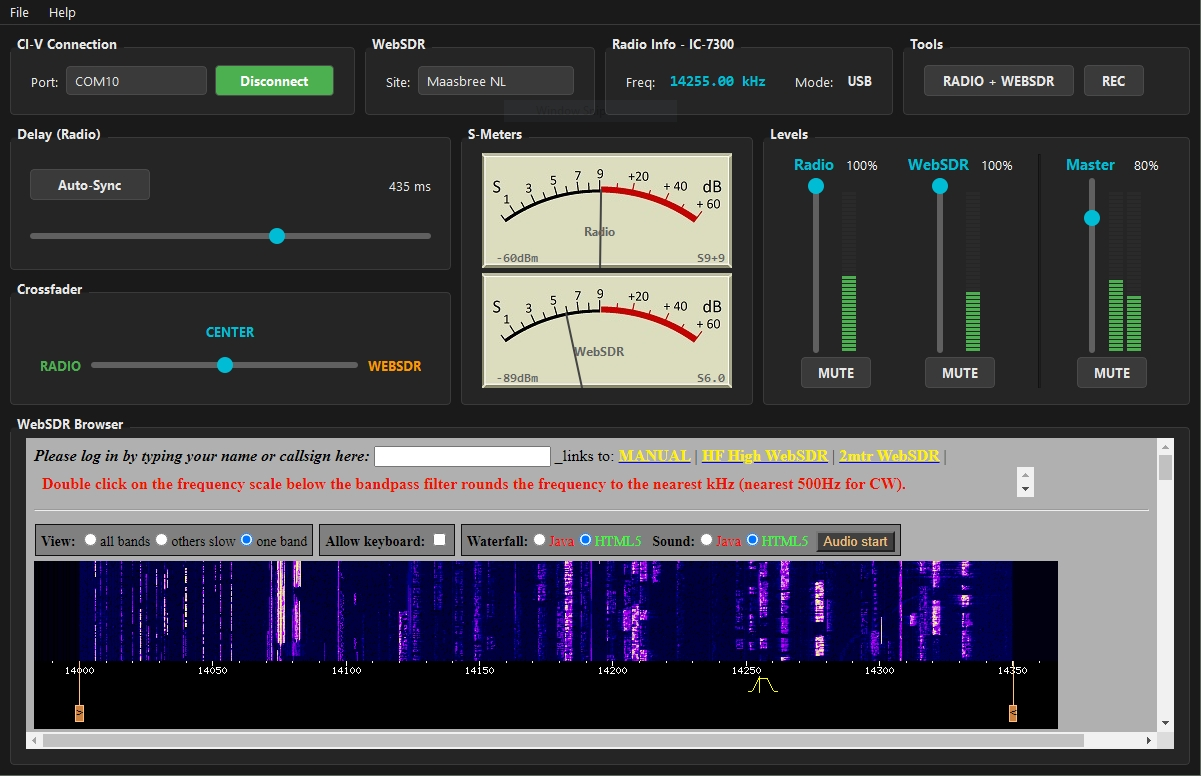
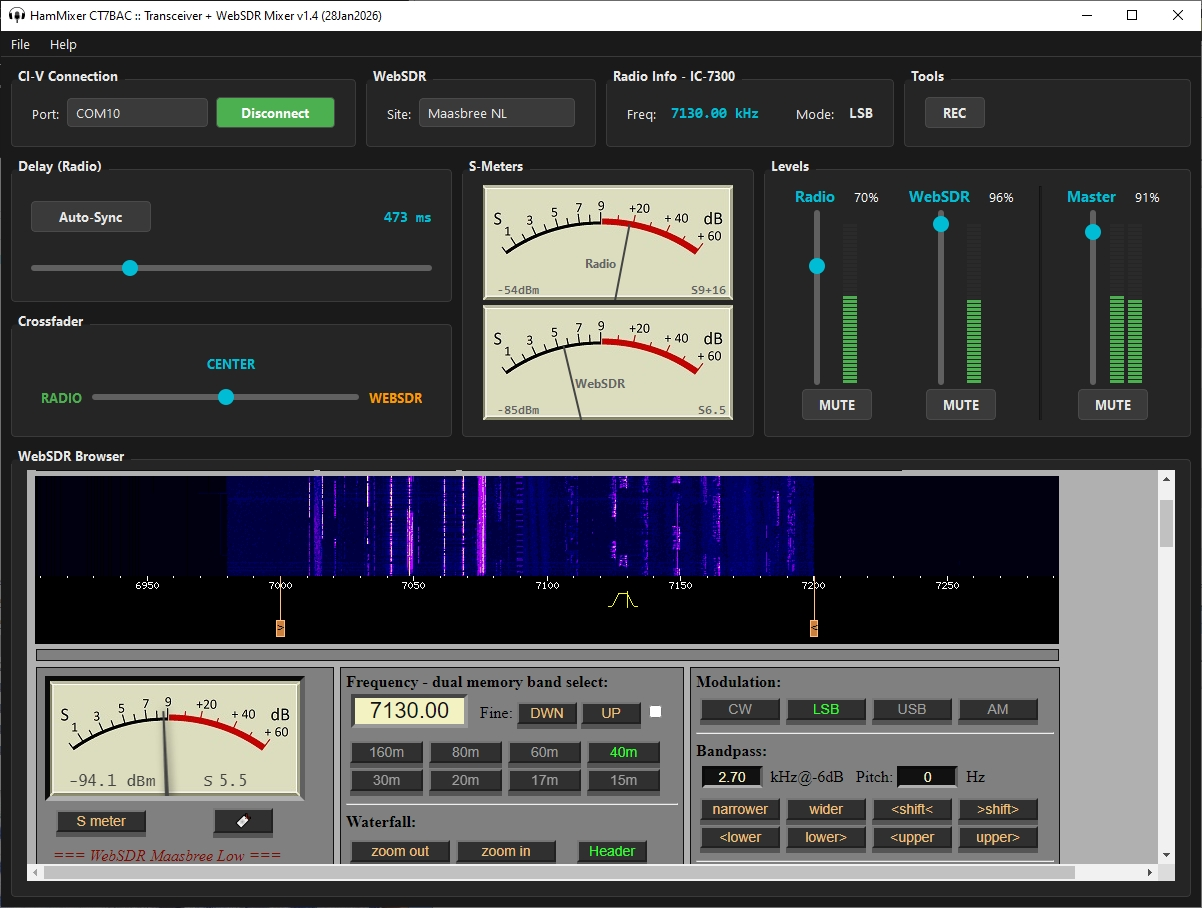
Reorganize menu structure and UI layout, add site manager button
- Reorganize top menu: File (config ops), Tools (audio/sites), Help
- Add cogwheel button next to WebSDR dropdown for quick site manager access
- Adjust layout proportions: CI-V 30%, WebSDR 32%, Radio Info 25%, Tools 13%
- Update README with new menu structure and layout documentation

diff --git a/HamMixerCpp/src/ui/RadioControlPanel.cpp b/HamMixerCpp/src/ui/RadioControlPanel.cpp
@@ -33,7 +33,7 @@ RadioControlPanel::RadioControlPanel(QWidget* parent)
 void RadioControlPanel::setupUI()
 {
     // Main horizontal layout - single row with specific proportions
-    // CI-V 30%, WebSDR 20%, Radio Info 25%, Tools 25%
+    // CI-V 30%, WebSDR 32%, Radio Info 25%, Tools 13%
     QHBoxLayout* mainLayout = new QHBoxLayout(this);
     mainLayout->setContentsMargins(0, 0, 0, 0);
     mainLayout->setSpacing(10);
@@ -62,7 +62,7 @@ void RadioControlPanel::setupUI()
 
     mainLayout->addWidget(serialGroup, 30);
 
-    // ===== WebSDR Site Section (20%) =====
+    // ===== WebSDR Site Section (32%) =====
     QGroupBox* webSdrGroup = new QGroupBox("WebSDR", this);
     QHBoxLayout* webSdrLayout = new QHBoxLayout(webSdrGroup);
     webSdrLayout->setContentsMargins(10, 5, 10, 5);
@@ -72,12 +72,29 @@ void RadioControlPanel::setupUI()
     m_siteCombo = new QComboBox(webSdrGroup);
     m_siteCombo->setSizePolicy(QSizePolicy::Expanding, QSizePolicy::Fixed);
     m_siteCombo->setStyleSheet("QComboBox { min-width: 80px; }");
-    m_siteCombo->setToolTip("Select WebSDR site to use");
+    m_siteCombo->setToolTip("Select WebSDR or KiwiSDR site to use");
+
+    // Cogwheel button to open site manager
+    m_manageButton = new QPushButton(webSdrGroup);
+    m_manageButton->setFixedSize(28, 28);
+    m_manageButton->setToolTip("Manage SDR sites");
+    m_manageButton->setStyleSheet(
+        "QPushButton { "
+        "  background-color: #3C3C3C; "
+        "  border: 1px solid #555555; "
+        "  border-radius: 4px; "
+        "  font-size: 14px; "
+        "}"
+        "QPushButton:hover { background-color: #4A4A4A; }"
+        "QPushButton:pressed { background-color: #2A2A2A; }"
+    );
+    m_manageButton->setText(QString::fromUtf8("\u2699"));  // Unicode cogwheel
 
     webSdrLayout->addWidget(siteLabel);
     webSdrLayout->addWidget(m_siteCombo, 1);
+    webSdrLayout->addWidget(m_manageButton);
 
-    mainLayout->addWidget(webSdrGroup, 20);
+    mainLayout->addWidget(webSdrGroup, 32);
 
     // ===== Radio Info Section (25%) =====
     m_radioInfoGroup = new QGroupBox("Radio Info", this);
@@ -105,7 +122,7 @@ void RadioControlPanel::setupUI()
 
     mainLayout->addWidget(m_radioInfoGroup, 25);
 
-    // ===== Tools Section (25%) =====
+    // ===== Tools Section (13%) =====
     QGroupBox* toolsGroup = new QGroupBox("Tools", this);
     QHBoxLayout* toolsLayout = new QHBoxLayout(toolsGroup);
     toolsLayout->setContentsMargins(10, 5, 10, 5);
@@ -128,7 +145,7 @@ void RadioControlPanel::setupUI()
     toolsLayout->addWidget(m_recordIndicator);
     toolsLayout->addStretch();
 
-    mainLayout->addWidget(toolsGroup, 25);
+    mainLayout->addWidget(toolsGroup, 13);
 
     // Blink timer for recording indicator
     m_blinkTimer = new QTimer(this);
@@ -155,6 +172,9 @@ void RadioControlPanel::connectSignals()
 
     connect(m_recordButton, &QPushButton::clicked,
             this, &RadioControlPanel::recordClicked);
+
+    connect(m_manageButton, &QPushButton::clicked,
+            this, &RadioControlPanel::manageSitesClicked);
 }
 
 void RadioControlPanel::onConnectButtonClicked()

diff --git a/HamMixerCpp/src/ui/MainWindow.cpp b/HamMixerCpp/src/ui/MainWindow.cpp
@@ -246,22 +246,25 @@ void MainWindow::setupUI()
 
 void MainWindow::setupMenuBar()
 {
+    // ===== File Menu =====
     QMenu* fileMenu = menuBar()->addMenu("&File");
 
-    // Config file management
     fileMenu->addAction("&Open Config...", this, &MainWindow::onOpenConfig, QKeySequence::Open);
     fileMenu->addAction("&Save Config...", this, &MainWindow::onSaveConfig, QKeySequence::Save);
 
-    // Recent configs submenu
     m_recentConfigsMenu = fileMenu->addMenu("Open &Recent");
     updateRecentConfigsMenu();
 
     fileMenu->addSeparator();
-    fileMenu->addAction("Audio &Devices...", this, &MainWindow::onAudioDevicesClicked);
-    fileMenu->addAction("Manage &WebSDR...", this, &MainWindow::onManageWebSdr);
-    fileMenu->addSeparator();
     fileMenu->addAction("E&xit", this, &QMainWindow::close, QKeySequence::Quit);
 
+    // ===== Tools Menu =====
+    QMenu* toolsMenu = menuBar()->addMenu("&Tools");
+
+    toolsMenu->addAction("&Audio Devices...", this, &MainWindow::onAudioDevicesClicked);
+    toolsMenu->addAction("Manage &SDR Sites...", this, &MainWindow::onManageWebSdr);
+
+    // ===== Help Menu =====
     QMenu* helpMenu = menuBar()->addMenu("&Help");
     helpMenu->addAction("&About", this, [this]() {
         QMessageBox::about(this, "About HamMixer",
@@ -334,6 +337,8 @@ void MainWindow::connectSignals()
     // ========== WebSDR Manager signals ==========
     connect(m_radioControlPanel, &RadioControlPanel::webSdrSiteChanged,
             this, &MainWindow::onWebSdrSiteChanged);
+    connect(m_radioControlPanel, &RadioControlPanel::manageSitesClicked,
+            this, &MainWindow::onManageWebSdr);
 
     connect(m_webSdrManager, &WebSdrManager::stateChanged,
             this, &MainWindow::onWebSdrStateChanged);

diff --git a/HamMixerCpp/src/ui/RadioControlPanel.h b/HamMixerCpp/src/ui/RadioControlPanel.h
@@ -22,7 +22,7 @@
 /**
  * @brief Compact panel containing CI-V, WebSDR, Radio Info, and Tools sections
  *
- * Layout: [CI-V Connection 30%] | [WebSDR 20%] | [Radio Info 25%] | [Tools 25%]
+ * Layout: [CI-V Connection 30%] | [WebSDR 32%] | [Radio Info 25%] | [Tools 13%]
  * All in a single row with minimal height
  */
 class RadioControlPanel : public QWidget
@@ -65,6 +65,7 @@ signals:
     void serialDisconnectClicked();
     void portChanged(const QString& port);
     void webSdrSiteChanged(const WebSdrSite& site);
+    void manageSitesClicked();
 
     // Tools signals
     void recordClicked(bool checked);
@@ -86,6 +87,7 @@ private:
 
     // WebSDR controls
     QComboBox* m_siteCombo;
+    QPushButton* m_manageButton;
 
     // Info display
     QLabel* m_frequencyLabel;

diff --git a/README.md b/README.md
@@ -119,22 +119,19 @@ You can add custom SDR sites through **File > Manage WebSDR...** menu.
 
 ### Top Row Sections (Left to Right)
 - **Radio Connection (30%)**: COM port selection and Connect/Disconnect button (auto-detects protocol)
-- **WebSDR (20%)**: Site selector dropdown (WebSDR and KiwiSDR sites)
+- **WebSDR (32%)**: Site selector dropdown with cogwheel button for quick access to site manager
 - **Radio Info (25%)**: Current frequency and mode display; shows detected Icom model (e.g., "Radio Info - IC-7300")
-- **Tools (25%)**: REC button with recording indicator
+- **Tools (13%)**: REC button with recording indicator
 
 ### Controls Row
 - **Delay/Crossfader**: Time sync controls (0-2000ms) and audio balance
 - **S-Meters**: Stacked vertically - Radio on top, WebSDR below
 - **Levels**: Channel strips with volume sliders, LED meters, and mute buttons
 
-### Audio Device Configuration
-Audio devices are configured via **File > Audio Devices...** menu, keeping the main window clean and focused.
-
-### Configuration Management
-- **File > Open Config...** - Load a saved configuration
-- **File > Save Config...** - Save current configuration to file
-- **File > Open Recent** - Quick access to recent configurations
+### Menu Structure
+- **File**: Open Config, Save Config, Open Recent, Exit
+- **Tools**: Audio Devices, Manage SDR Sites
+- **Help**: About
 
 ---
 
